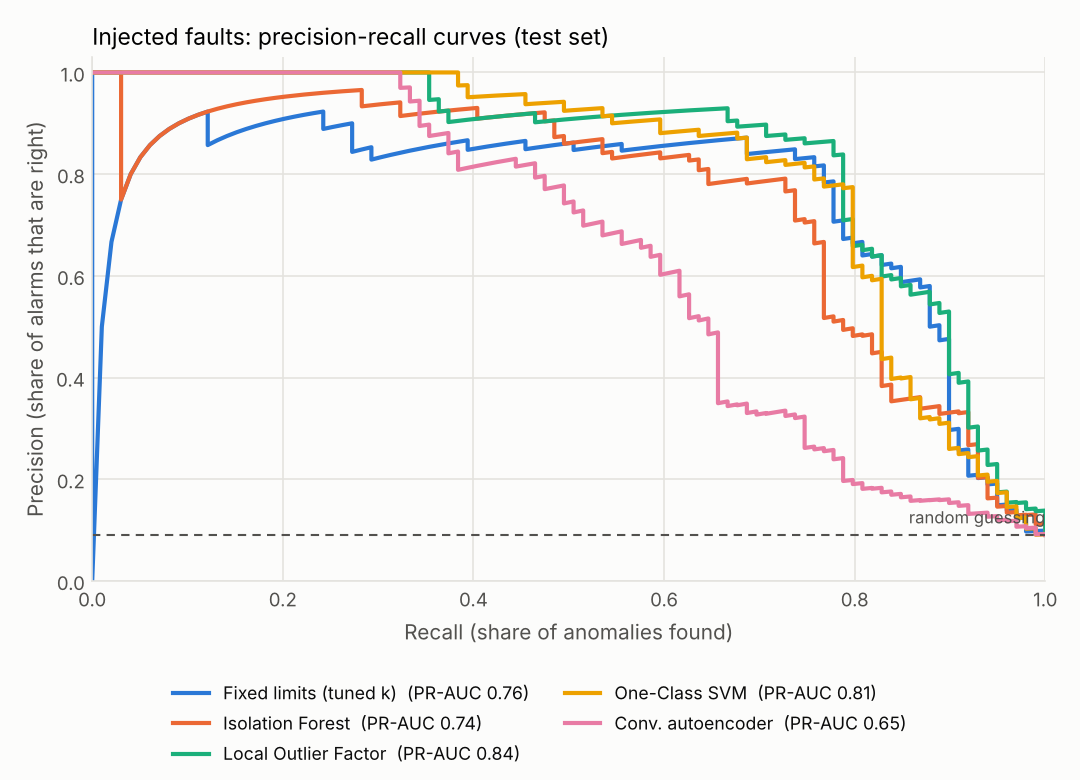
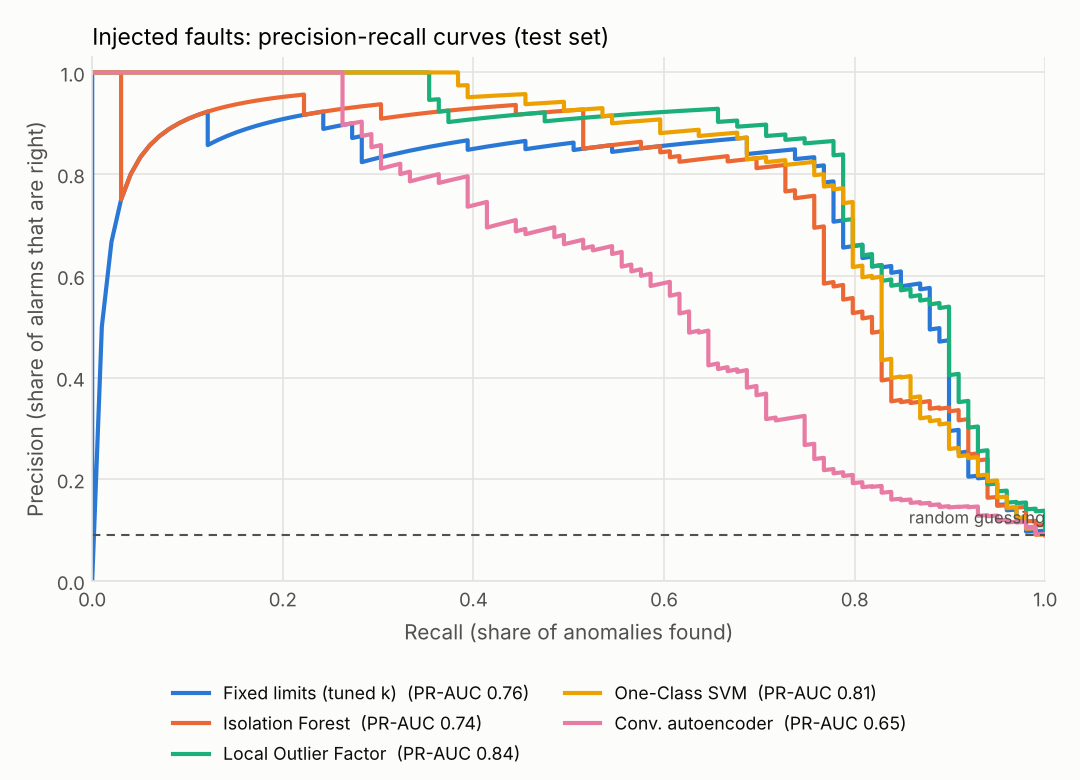
Update the first real-data check to the current code
The page still showed the numbers of 16 November, with a note that only
two of them change. Run again with the current code, more change: the
rank correlation with XCT now uses 333 test segments instead of 922
(layers 138 and 139 are next to the last loaded layer, which now counts
as a top face), the lowest inner XCT value is 0.513, and the alarm counts
shift a little. All numbers and the PR curve now come from
results/nist_x4_layers_120_140/. The findings stay the same.

Claude-Session: https://claude.ai/code/session_01VFASyaBYtEmEAuhq2fyVUS

diff --git a/docs/first_real_data_check.md b/docs/first_real_data_check.md
@@ -9,12 +9,12 @@ It is **not** the final result. It uses 21 of 1000 layer files, from one part.
 The full run on all four parts is in the [README](../README.md#results) and
 the [report](report.md).
 
-> **Note (17 November 2026).** The numbers on this page were made with the
-> code of 16 November. Two later fixes change them a little: frames with the
+> **Note (17 November 2026).** This check was first made with the code of
+> 16 November. Two later fixes change its numbers a little: frames with the
 > same time stamp no longer start a new track, and XCT labels now leave out
-> all surfaces (not only side cells). Run again with the new code, this
-> check gives 3 572 training segments instead of 3 568 and an XCT threshold
-> of 0.484 instead of 0.471. The findings below stay the same.
+> all surfaces (not only side cells). The numbers and figures on this page
+> are from a new run with the current code
+> (`results/nist_x4_layers_120_140/`). The findings stay the same.
 
 ## How to repeat it
 
@@ -28,9 +28,9 @@ python scripts/run_pipeline.py --config configs/nist_x4_layers_120_140.yaml
 | | |
 |---|---|
 | Split | Blocks of 2 layers: train, train, train, validation, test, and so on |
-| Train layers | 120–125, 130–135, 140 (13 layers, 3 568 segments) |
+| Train layers | 120–125, 130–135, 140 (13 layers, 3 572 segments) |
 | Validation layers | 126, 127, 136, 137 (1 098 segments) |
-| Test layers | 128, 129, 138, 139 (1 096 segments) |
+| Test layers | 128, 129, 138, 139 (1 098 segments) |
 | Segment | 12 camera frames in a row on one track (1.2 ms) |
 | Injected faults | 47 faults in the test layers, 99 faulty segments (9 % of test segments) |
 | Alarm level | Set on the validation layers: 1 % of normal segments flagged |
@@ -40,12 +40,15 @@ python scripts/run_pipeline.py --config configs/nist_x4_layers_120_140.yaml
 
 | Method | Precision | Recall | F1 | False rejection rate | PR-AUC | FRR at 90 % recall |
 |---|---:|---:|---:|---:|---:|---:|
-| Fixed limits (3-sigma rule) | 0.624 | 0.838 | 0.716 | 5.0 % | 0.758 | 10.9 % |
-| Fixed limits (tuned k) | 0.855 | 0.596 | 0.702 | 1.0 % | 0.758 | 10.9 % |
-| Isolation Forest | 0.832 ± 0.016 | 0.599 ± 0.025 | 0.696 ± 0.016 | 1.2 ± 0.2 % | 0.741 ± 0.009 | 17.4 ± 1.1 % |
-| Local Outlier Factor | 0.869 | 0.737 | 0.798 | 1.1 % | 0.838 | 9.1 % |
-| One-Class SVM | 0.829 | 0.687 | 0.751 | 1.4 % | 0.814 | 20.9 % |
-| Conv. autoencoder | 0.724 ± 0.028 | 0.522 ± 0.025 | 0.607 ± 0.027 | 2.0 ± 0.2 % | 0.645 ± 0.018 | 47.4 ± 0.7 % |
+| Fixed limits (3-sigma rule) | 0.615 | 0.838 | 0.709 | 5.2 % | 0.757 | 11.1 % |
+| Fixed limits (tuned k) | 0.857 | 0.606 | 0.710 | 1.0 % | 0.757 | 11.1 % |
+| Isolation Forest | 0.829 ± 0.003 | 0.586 ± 0.030 | 0.686 ± 0.019 | 1.2 ± 0.1 % | 0.736 ± 0.019 | 17.6 ± 1.5 % |
+| Local Outlier Factor | 0.878 | 0.727 | 0.796 | 1.0 % | 0.837 | 9.2 % |
+| One-Class SVM | 0.829 | 0.687 | 0.751 | 1.4 % | 0.814 | 20.8 % |
+| Conv. autoencoder | 0.736 ± 0.050 | 0.498 ± 0.037 | 0.594 ± 0.042 | 1.8 ± 0.3 % | 0.652 ± 0.043 | 49.1 ± 4.2 % |
+
+Local Outlier Factor and One-Class SVM gave the same result with all 3
+seeds, so no ± is shown for them.
 
 ![Precision-recall curves](images/real_layers_120_140_pr_curves.png)
 
@@ -55,10 +58,10 @@ python scripts/run_pipeline.py --config configs/nist_x4_layers_120_140.yaml
 |---|---:|---:|---:|---:|
 | Fixed limits (3-sigma rule) | 100 % | 100 % | 100 % | 100 % |
 | Fixed limits (tuned k) | 75 % | 100 % | 91 % | 55 % |
-| Isolation Forest | 47 % | 78 % | 100 % | 94 % |
-| Local Outlier Factor | 83 % | 100 % | 100 % | 91 % |
+| Isolation Forest | 42 % | 81 % | 100 % | 85 % |
+| Local Outlier Factor | 75 % | 100 % | 100 % | 91 % |
 | One-Class SVM | 75 % | 100 % | 100 % | 91 % |
-| Conv. autoencoder | 25 % | 72 % | 100 % | 79 % |
+| Conv. autoencoder | 28 % | 64 % | 100 % | 67 % |
 
 ![Signal around one injected fault of each kind](images/real_layers_120_140_signal_examples.png)
 
@@ -69,41 +72,42 @@ first camera frame of every track shows no melt pool.
 
 | Method | Solid metal below | Overhang region |
 |---|---:|---:|
-| Fixed limits (3-sigma rule) | 4.6 % | 29.4 % |
+| Fixed limits (3-sigma rule) | 4.8 % | 29.4 % |
 | Fixed limits (tuned k) | 0.7 % | 17.6 % |
-| Isolation Forest | 0.4 % | 47.1 % |
-| Local Outlier Factor | 0.7 % | 23.5 % |
+| Isolation Forest | 0.4 ± 0.0 % | 47.1 ± 4.8 % |
+| Local Outlier Factor | 0.6 % | 23.5 % |
 | One-Class SVM | 0.8 % | 35.3 % |
-| Conv. autoencoder | 1.8 % | 11.8 % |
+| Conv. autoencoder | 1.6 ± 0.4 % | 9.8 ± 2.8 % |
 
 The overhang column rests on only 17 normal test segments, so these
 percentages are rough.
 
 ## Results: clean test layers and X-ray CT
 
-On the test layers without injected faults, 29 of 1 096 segments were flagged
-by at least one tuned method (15 by one method, 6 by two, 4 by three, 4 by
-four). 34 % of them lie in the overhang region.
+On the test layers without injected faults, 29 of 1 098 segments were flagged
+by at least one tuned method (17 by one method, 4 by two, 6 by three, 2 by
+four). 41 % of them lie in the overhang region.
 
 ![Layer 128](images/real_layers_120_140_layer_heatmap.png)
 
 Layer 128, Local Outlier Factor. The three alarms sit on the edge at
 y ≈ 13.5 mm, where this layer reaches out over powder.
 
-**XCT pores.** With the default threshold (0.471), no test segment contains a
-pore. The lowest XCT value in a test segment away from the surface is 0.482.
+**XCT pores.** With the default threshold (0.484), no test segment contains a
+pore. The lowest XCT value in a test segment away from the surface is 0.513.
 So precision and recall against XCT cannot be given for these layers.
 
-**Anomaly score against XCT value** (Spearman rank correlation, 922 segments
-away from the surface):
+**Anomaly score against XCT value** (Spearman rank correlation, 333 test
+segments away from the surface; test layers 138 and 139 are close to the
+last loaded layer, which counts as a top face, so they are left out):
 
 | Method | Rank correlation |
 |---|---:|
-| Fixed limits (tuned k) | −0.017 |
-| Isolation Forest | 0.005 |
-| Local Outlier Factor | −0.036 |
-| One-Class SVM | 0.043 |
-| Conv. autoencoder | 0.010 |
+| Fixed limits (tuned k) | 0.009 |
+| Isolation Forest | −0.035 ± 0.007 |
+| Local Outlier Factor | −0.021 |
+| One-Class SVM | −0.007 |
+| Conv. autoencoder | 0.011 ± 0.006 |
 
 All values are close to zero. In these layers there is no visible link between
 how unusual the melt pool is and the XCT value.
@@ -113,12 +117,12 @@ how unusual the melt pool is and the XCT value.
 - The loader reads the real files with no changes: 40 columns, no header,
   layer number from the file name.
 - The alarm level carries over from validation to test layers: every tuned
-  method flags 1.0 to 2.0 % of normal test segments (target 1 %).
+  method flags 1.0 to 1.8 % of normal test segments (target 1 %).
 - The 3-sigma rule catches the most faults, but it flags 5 % of normal
-  segments. At about 1 % false rejections, Local Outlier Factor finds 74 % of
-  the faulty segments and tuned fixed limits find 60 %.
+  segments. At about 1 % false rejections, Local Outlier Factor finds 73 % of
+  the faulty segments and tuned fixed limits find 61 %.
 - Slow drifts are the hardest kind for most methods.
-- The autoencoder is the weakest here. It had only 3 568 training segments.
+- The autoencoder is the weakest here. It had only 3 572 training segments.
 - False rejections are much more common in the overhang region than over
   solid metal, for every method.
 
